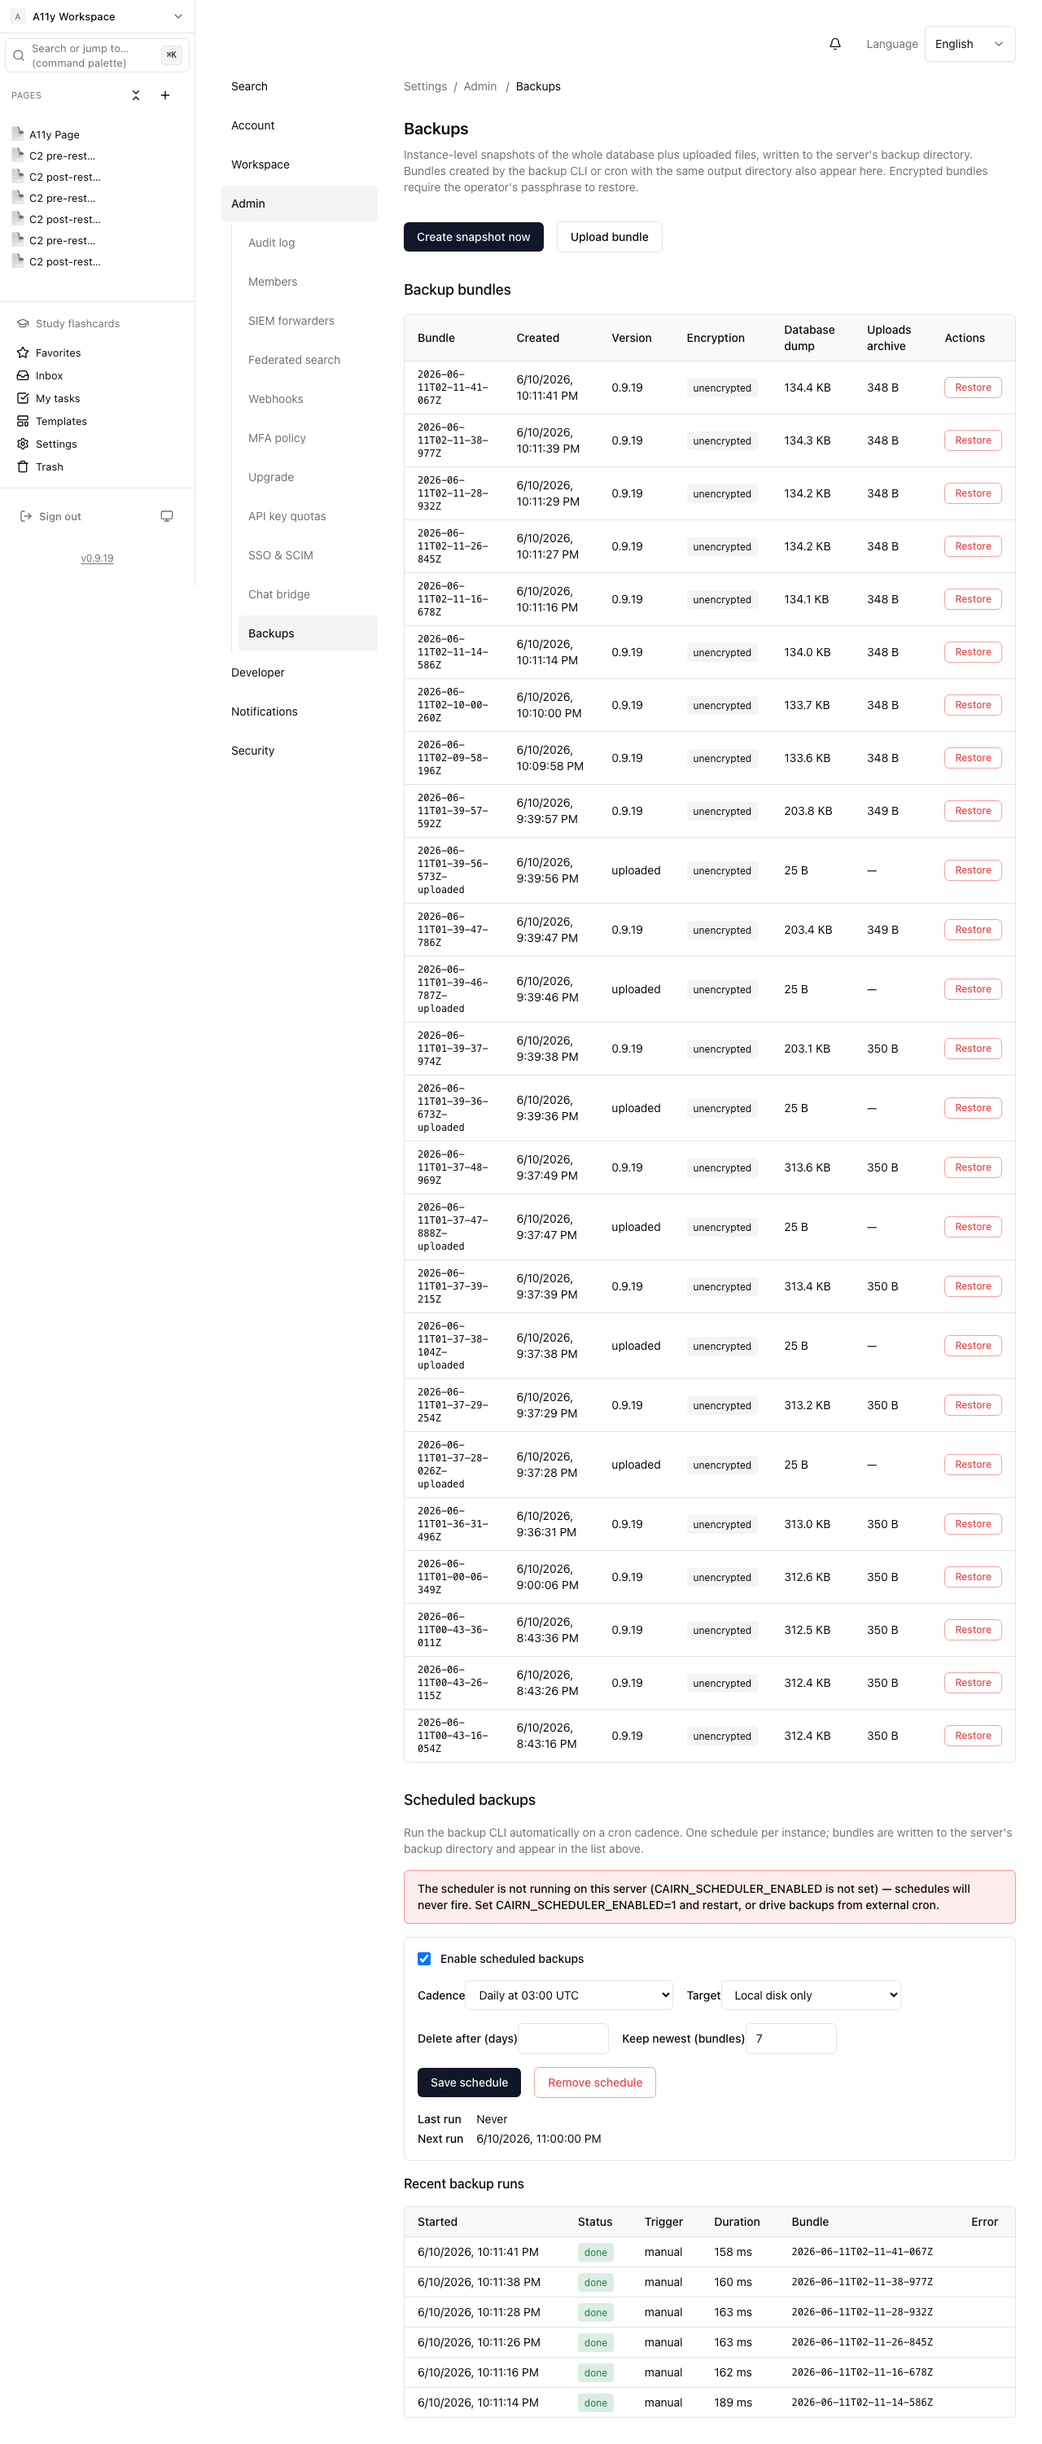
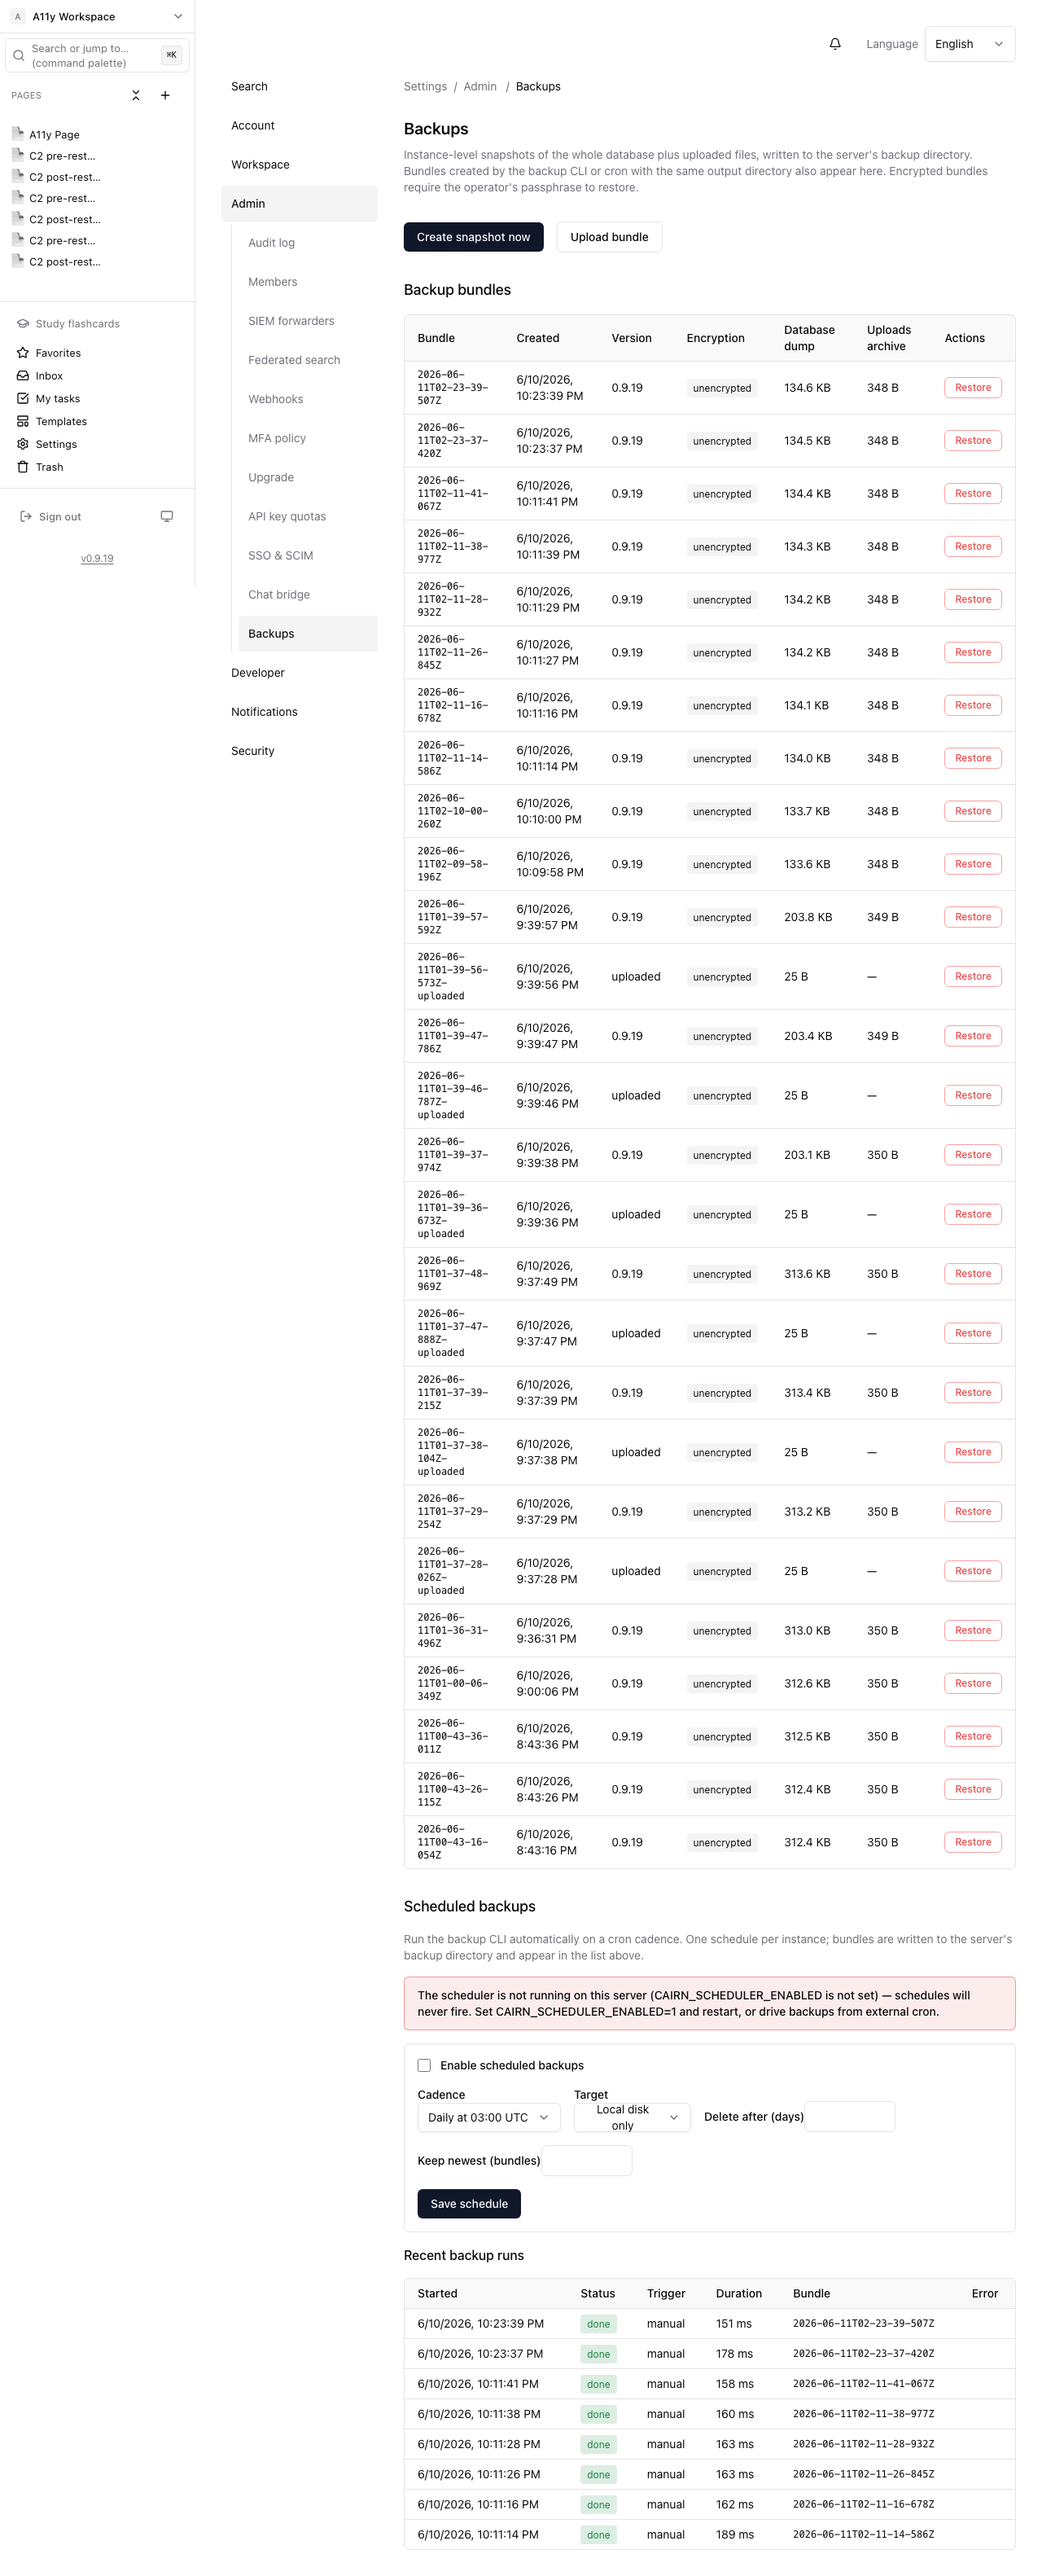
fix(admin): schedule section uses the ui Select primitive, not raw <select>
The native-control guard (#38) bans raw <select> outside ui primitives —
caught by tests/components/native-control-guard.test.ts on CI. Same testids,
same behavior, Radix Select like every other settings dropdown.

diff --git a/src/app/(app)/settings/admin/backups/schedule-section.tsx b/src/app/(app)/settings/admin/backups/schedule-section.tsx
@@ -2,6 +2,13 @@
 
 import { useRouter } from 'next/navigation';
 import { useState } from 'react';
+import {
+  Select,
+  SelectContent,
+  SelectItem,
+  SelectTrigger,
+  SelectValue,
+} from '@/components/ui/select';
 import { useT } from '@/lib/i18n/provider';
 
 // v0.10.0 C3 — "Scheduled backups" section of /settings/admin/backups.
@@ -157,16 +164,22 @@ export function ScheduleSection({ schedule, schedulerEnabled, runs }: SchedulePr
         <div className="flex flex-wrap items-end gap-4">
           <label className="block space-y-2 text-sm">
             <span className="font-medium">{t('settingsAdmin.backups.schedule.cadence')}</span>
-            <select
-              value={preset}
-              onChange={(e) => setPreset(e.target.value as Preset)}
-              data-testid="schedule-preset-select"
-              className={inputClass}
-            >
-              <option value="daily">{t('settingsAdmin.backups.schedule.preset.daily')}</option>
-              <option value="weekly">{t('settingsAdmin.backups.schedule.preset.weekly')}</option>
-              <option value="custom">{t('settingsAdmin.backups.schedule.preset.custom')}</option>
-            </select>
+            <Select value={preset} onValueChange={(next) => setPreset(next as Preset)}>
+              <SelectTrigger data-testid="schedule-preset-select" className="w-44">
+                <SelectValue />
+              </SelectTrigger>
+              <SelectContent>
+                <SelectItem value="daily">
+                  {t('settingsAdmin.backups.schedule.preset.daily')}
+                </SelectItem>
+                <SelectItem value="weekly">
+                  {t('settingsAdmin.backups.schedule.preset.weekly')}
+                </SelectItem>
+                <SelectItem value="custom">
+                  {t('settingsAdmin.backups.schedule.preset.custom')}
+                </SelectItem>
+              </SelectContent>
+            </Select>
           </label>
           {preset === 'custom' ? (
             <label className="block space-y-2 text-sm">
@@ -183,15 +196,17 @@ export function ScheduleSection({ schedule, schedulerEnabled, runs }: SchedulePr
           ) : null}
           <label className="block space-y-2 text-sm">
             <span className="font-medium">{t('settingsAdmin.backups.schedule.target')}</span>
-            <select
-              value={target}
-              onChange={(e) => setTarget(e.target.value as 'local' | 's3')}
-              data-testid="schedule-target-select"
-              className={inputClass}
-            >
-              <option value="local">{t('settingsAdmin.backups.schedule.targetLocal')}</option>
-              <option value="s3">{t('settingsAdmin.backups.schedule.targetS3')}</option>
-            </select>
+            <Select value={target} onValueChange={(next) => setTarget(next as 'local' | 's3')}>
+              <SelectTrigger data-testid="schedule-target-select" className="w-36">
+                <SelectValue />
+              </SelectTrigger>
+              <SelectContent>
+                <SelectItem value="local">
+                  {t('settingsAdmin.backups.schedule.targetLocal')}
+                </SelectItem>
+                <SelectItem value="s3">{t('settingsAdmin.backups.schedule.targetS3')}</SelectItem>
+              </SelectContent>
+            </Select>
           </label>
           <label className="block space-y-2 text-sm">
             <span className="font-medium">{t('settingsAdmin.backups.schedule.retentionDays')}</span>
